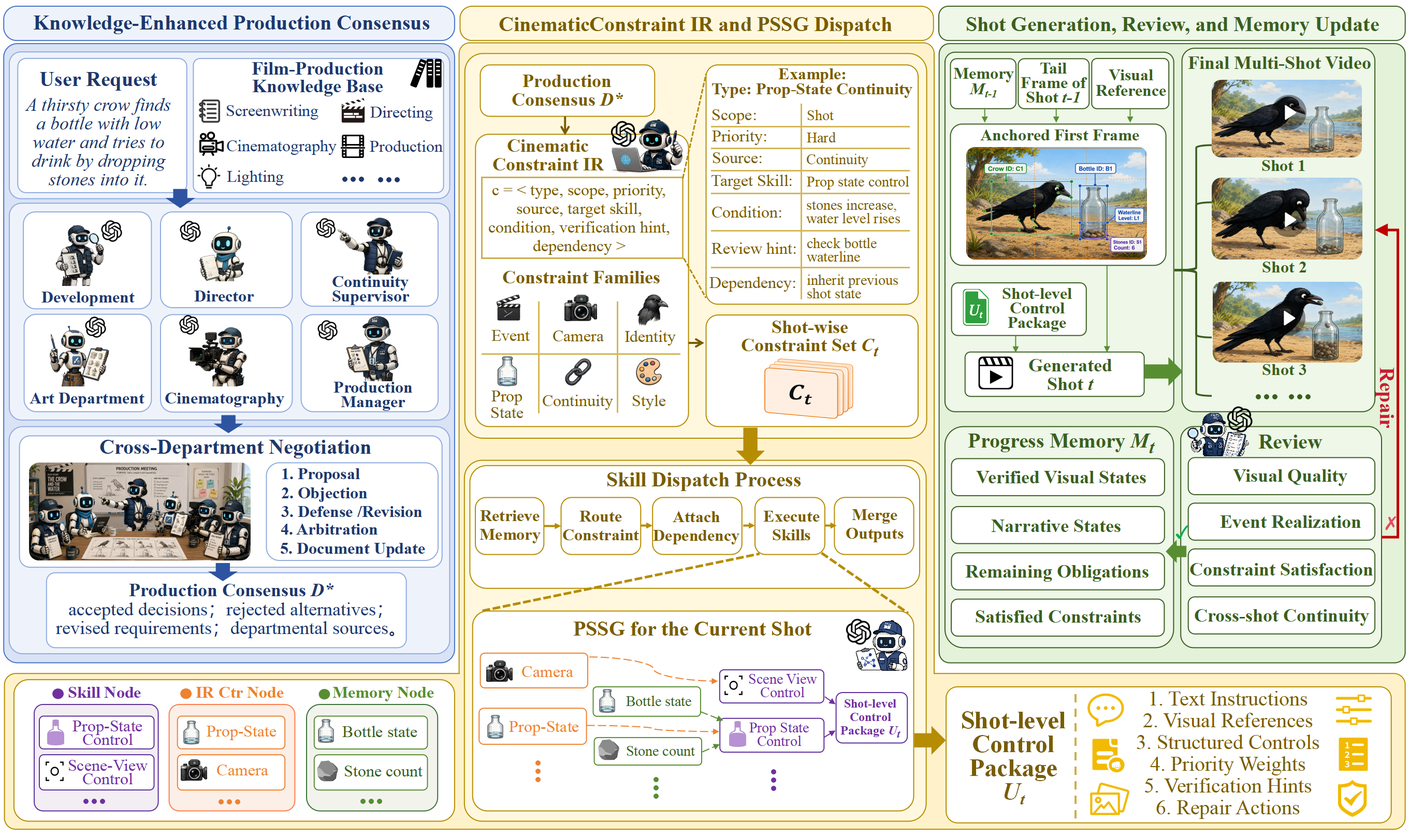
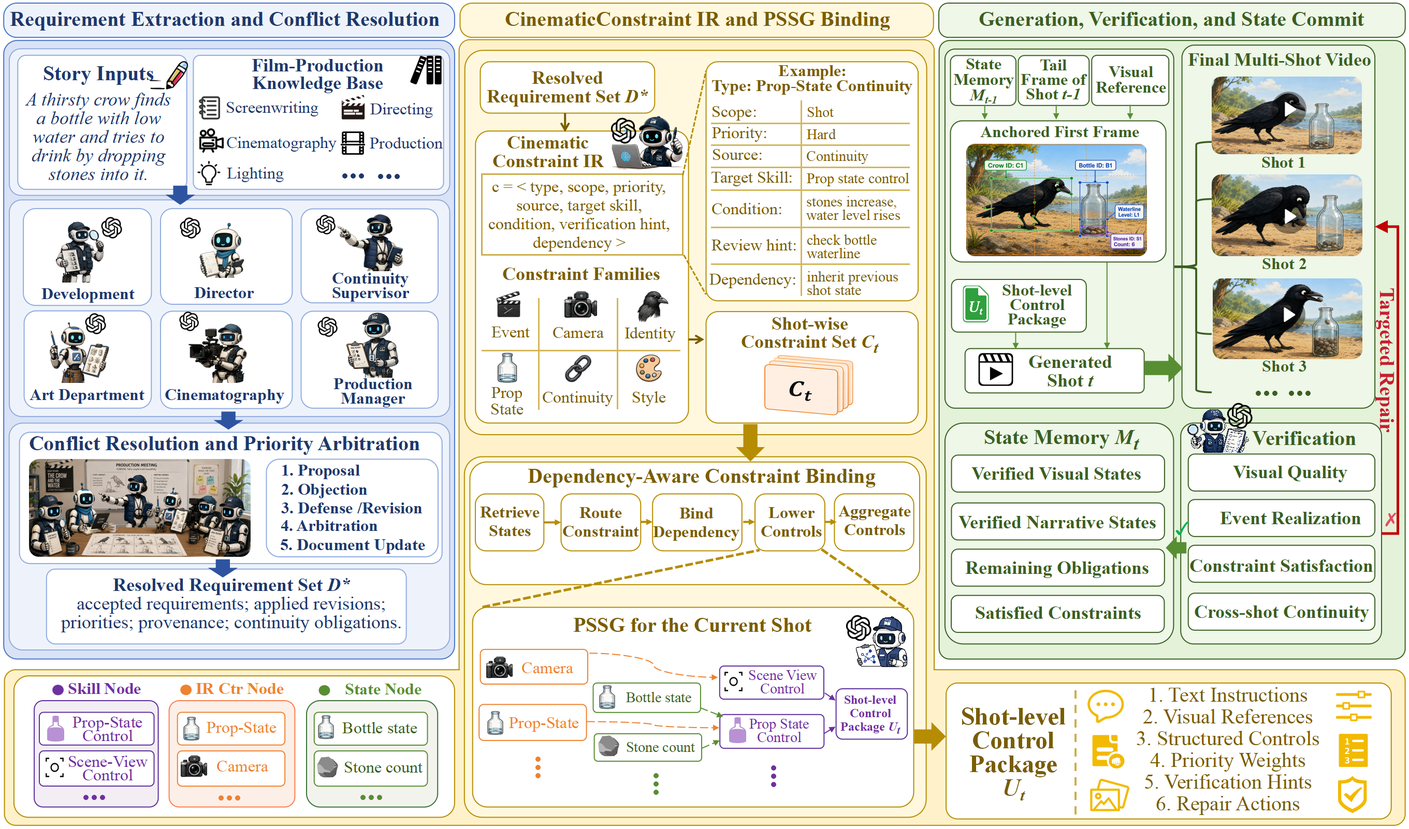
Unite revised overview with production roles and requirement preservation

Changed region(s): [[0.0, 0.0, 0.9996, 0.9988], [0.3436, 0.6242, 0.4061, 0.6554]]

diff --git a/site/assets/index-Ddd-dN8k.js b/site/assets/index-Ddd-dN8k.js
@@ -1,15 +1,4 @@
-<!doctype html>
-<html lang="en">
-  <head>
-    <meta charset="UTF-8" />
-    <meta name="viewport" content="width=device-width, initial-scale=1.0" />
-    <meta name="robots" content="noindex,nofollow" />
-    <meta name="description" content="CineIR: Constraint-Preserving Compilation for Multi-Shot Video Generation. Anonymous supplementary material." />
-    <title>CineIR · Anonymous Supplementary Material</title>
-    <link rel="icon" href="./favicon.svg" type="image/svg+xml" />
-    
-  </head>
-  <body><div id="root"></div><script>(function(){"use strict";var Mo=document.createElement("style");Mo.textContent=`:root{font-family:Inter,-apple-system,BlinkMacSystemFont,Segoe UI,sans-serif;color:#1c2533;background:#f3f5f8;font-synthesis:none;font-weight:400;line-height:1.6;--blue:#2563eb;--line:#dce2ea;--muted:#626b79}*{box-sizing:border-box}body{margin:0}button,input{font:inherit}button,a,input,summary{-webkit-tap-highlight-color:transparent}a{color:inherit;text-decoration:none}button{cursor:pointer}button:focus-visible,a:focus-visible,input:focus-visible,summary:focus-visible,video:focus-visible{outline:3px solid var(--blue);outline-offset:4px}html{scroll-behavior:smooth;scroll-padding-top:88px}h1,h2,h3,p{margin:0}button{min-height:40px;border:1px solid #dedfe3;border-radius:5px;background:#fff;padding:7px 13px;font-size:13px;font-weight:500;color:#363636;transition:background .15s}button:hover{background:#f3f4f6}button.primary{background:#20242c;color:#fff;border-color:#20242c}button.primary:hover{background:#363d48}.skip-link{position:fixed;top:-60px;left:20px;z-index:10;background:#fff;padding:8px}.skip-link:focus{top:8px}.site-header{position:sticky;top:0;z-index:5;background:#f3f5f8;border-bottom:1px solid transparent}.site-header.scrolled{background:#fbfcfe;border-color:var(--line)}.nav-inner{max-width:1480px;padding:15px 40px;margin:auto;display:flex;justify-content:space-between;align-items:center}.wordmark{font-size:20px;font-weight:750;letter-spacing:-.7px}.wordmark span{color:var(--blue)}.nav-links{display:flex;gap:32px;font-size:13px;color:#575b64}.nav-links a:hover{color:var(--blue)}.hero{text-align:center;padding:78px 24px 52px;max-width:1000px;margin:auto}.hero-name{font-size:58px;line-height:1.1;letter-spacing:-3px;font-weight:750;color:var(--blue);margin-bottom:23px}h1{font-size:clamp(28px,3.1vw,44px);line-height:1.23;letter-spacing:-1.5px;font-weight:650}h1 span{display:block}.anonymous{display:inline-block;font-size:12px;color:#536684;letter-spacing:.06em;margin-top:24px;padding:6px 14px;border:1px solid #d9e2ef;border-radius:5px;background:#edf2f9}.hero-description{font-size:16px;line-height:1.85;max-width:730px;margin:26px auto 0;color:var(--muted)}.page-container{max-width:1480px;margin:auto;padding:0 40px}.chapter{position:relative;padding:72px 0 120px;border-top:1px solid var(--line)}.chapter:before{content:"";position:absolute;top:-1px;left:0;width:48px;height:3px;background:#8aa8d7;border-radius:2px}.chapter+.chapter{padding-top:80px}.chapter-heading{display:flex;gap:25px;align-items:center;margin-bottom:32px}.chapter-number{font-size:76px;color:#ccd7e8;font-weight:500;line-height:1;letter-spacing:-5px;font-variant-numeric:tabular-nums}.eyebrow{text-transform:uppercase;font-size:10px;letter-spacing:.16em;font-weight:650;color:#737781}.chapter-heading .eyebrow{margin-bottom:8px}h2{font-size:clamp(25px,2.5vw,34px);font-weight:600;letter-spacing:-1px;line-height:1.25}.prompt-block>.eyebrow{margin-bottom:11px}.prompt-text{white-space:pre-wrap;overflow-wrap:anywhere;font-size:13px;color:#535862;line-height:1.8;background:#fbfcfe;border:1px solid #dfe5ed;border-left:3px solid #c1cfe5;border-radius:7px;padding:23px 27px}.focus-row{display:flex;align-items:center;gap:24px;margin:24px 0 35px}.focus-row ul{list-style:none;display:flex;gap:8px;flex-wrap:wrap;margin:0;padding:0}.focus-row li{font-size:11px;color:#5b6980;background:#eaf0f7;border:1px solid #dce5f0;border-radius:4px;padding:4px 10px}.sync-toolbar{display:flex;justify-content:space-between;gap:20px;align-items:center;margin-bottom:18px}.sync-toolbar h3{font-size:14px;font-weight:600}.sync-toolbar p{font-size:11px;color:#777;margin-top:3px}.buttons{display:flex;align-items:center;gap:7px;flex-wrap:wrap}.buttons button span{margin-right:4px}.loop-control{font-size:12px;display:flex;align-items:center;gap:5px;min-height:40px;padding:0 6px;cursor:pointer}.loop-control input{accent-color:var(--blue);width:15px;height:15px}.video-grid{display:grid;grid-template-columns:repeat(3,minmax(0,1fr));gap:20px}.video-card{min-width:0;border:1px solid #dfe2e7;border-radius:9px;overflow:hidden;background:#fff;box-shadow:0 2px 6px #1c2d4809}.card-heading{display:flex;align-items:center;justify-content:space-between;gap:8px;padding:12px 15px;min-height:47px}.card-heading h3{font-size:13px;font-weight:600}.sequence-label{font-size:9px;color:#8a8f98;white-space:nowrap}.ours{border-color:#8aaaf0}.ours .card-heading{background:#edf3ff}.ours h3{color:#2059c8}.video-frame{aspect-ratio:16/9;position:relative;background:#eceef1;isolation:isolate}.video-frame video{position:absolute;top:0;right:0;bottom:0;left:0;width:100%;height:100%;object-fit:contain;z-index:2}.poster{position:absolute;width:100%;height:100%;object-fit:contain;z-index:1}.placeholder{position:absolute;top:0;right:0;bottom:0;left:0;display:flex;align-items:center;justify-content:center;flex-direction:column;font-size:11px;gap:7px;color:#8b9099}.frame-icon{font-size:28px}.unavailable{position:absolute;top:0;right:0;bottom:0;left:0;display:grid;place-items:center;color:#777;font-size:13px;background:#eef0f3;z-index:3}.master-timeline{margin-top:20px;padding:15px 18px;background:#fbfcfe;border:1px solid #dfe5ed;border-radius:7px}.timeline-title{display:flex;justify-content:space-between;font-size:11px;color:#555}.timeline-title output{font-variant-numeric:tabular-nums;color:var(--blue)}.range-row{display:flex;gap:13px;align-items:center;font-size:10px;color:#8b8b8b;margin:5px 0}.range-row input{width:100%;height:24px;margin:0;accent-color:var(--blue);cursor:pointer}.master-timeline p{font-size:11px;color:#81858d}.playback-notice{font-size:12px;color:#666;margin-top:12px}.mobile-note{display:none}.section-description{max-width:770px;font-size:15px;color:var(--muted);line-height:1.8;margin:-6px 0 32px}.long-video{max-width:1120px;margin:auto}.long-video .card-heading{padding:14px 18px}.long-prompt{margin-top:22px;font-size:12px;color:#666}.long-prompt summary{cursor:pointer;min-height:40px}.long-prompt .prompt-text{margin-top:8px}.shot-timeline{display:flex;gap:8px;overflow-x:auto;padding:16px 3px}.shot-timeline button{flex-shrink:0}.shot-timeline button span{display:block;font-size:11px}.site-footer{border-top:1px solid var(--line);max-width:1400px;margin:auto;padding:28px 0 40px;display:flex;justify-content:space-between;align-items:center;color:#858991;font-size:11px}.site-footer .wordmark{font-size:16px;color:#555}@media(min-width:1600px){.hero{padding-top:100px;padding-bottom:70px}}@media(max-width:1100px){.sync-toolbar{align-items:flex-start;flex-direction:column}.video-grid{grid-template-columns:repeat(2,minmax(0,1fr))}.sequence-label{font-size:10px}.site-footer{margin:0 40px}}@media(max-width:700px){html{scroll-padding-top:76px}.nav-inner{padding:13px 20px}.nav-links{gap:20px;font-size:12px}.hero{padding:58px 20px 42px}.hero-name{font-size:48px}h1{font-size:28px;letter-spacing:-.9px}.hero-description{font-size:14px}.anonymous{font-size:11px}.page-container{padding:0 20px}.chapter{padding:48px 0 80px}.chapter+.chapter{padding-top:48px}.chapter-heading{gap:18px}.chapter-number{font-size:60px}.eyebrow{font-size:9px}h2{font-size:25px}.prompt-text{padding:18px;font-size:12px}.focus-row{flex-direction:column;align-items:flex-start;gap:10px}.video-grid{grid-template-columns:1fr;gap:18px}.buttons{gap:6px}.buttons button{padding:7px 10px;font-size:12px}.mobile-note{display:block;color:#888;font-size:11px;margin:0 0 15px}.section-description{font-size:14px}.site-footer{margin:0 20px;gap:16px;font-size:10px}.master-timeline p{font-size:10px}}@media(prefers-reduced-motion:reduce){html{scroll-behavior:auto}*,*:before,*:after{transition:none!important;animation:none!important}}.method-figure{margin:0 0 72px;padding:16px;background:#fff;border:1px solid #dce2ea;border-radius:12px;box-shadow:0 4px 16px #1c2d480a}.method-figure a{display:block;border-radius:4px}.method-figure img{display:block;width:100%;height:auto}.method-figure a:hover{cursor:zoom-in}@media(max-width:700px){.method-figure{margin-bottom:48px;padding:7px;border-radius:8px}}.nav-links a{padding:6px 11px;border-radius:6px}.nav-links a:hover{background:#e6edf7}.nav-links{gap:12px}.hero-name{font-size:68px;font-weight:800;letter-spacing:-3.5px}.hero{padding-bottom:60px}.hero-description{max-width:710px}.method-figure{padding:24px;border-radius:16px;border-top:3px solid #b7c9e7}.method-figure img{border-radius:5px}.chapter-heading{gap:24px;position:relative}.chapter-heading>div{flex:1;min-width:0}.chapter-heading .eyebrow{display:flex;align-items:center;gap:16px;color:#637693}.chapter-heading .eyebrow:after{content:"";height:1px;background:#dce3ee;flex:1;max-width:160px}.chapter-number{display:grid;place-items:center;min-width:94px;min-height:94px;font-size:52px;letter-spacing:-3px;color:#8198ba;background:#e7edf6;border:1px solid #d8e1ef;border-radius:14px;font-weight:400}.chapter-heading h2{font-size:clamp(27px,2.6vw,37px);letter-spacing:-1.2px}.prompt-block{display:grid;grid-template-columns:135px minmax(0,1fr);gap:22px;background:#fff;border:1px solid #dce3ec;border-radius:12px;padding:26px;margin-top:36px}.prompt-block>.eyebrow{margin:3px 0 0;position:relative;padding-top:18px}.prompt-block>.eyebrow:before{content:"";position:absolute;top:0;left:0;width:24px;height:3px;background:#91a9cb;border-radius:2px}.story-script{min-width:0}.script-style{font-size:12px;line-height:1.8;color:#697386;padding-bottom:18px;border-bottom:1px solid #e8edf3;white-space:pre-wrap}.script-shots{list-style:none;padding:0;margin:0;display:grid;grid-template-columns:repeat(2,minmax(0,1fr));column-gap:28px}.script-shots li{display:flex;gap:14px;align-items:flex-start;padding:18px 0;border-bottom:1px solid #edf0f5;min-width:0}.script-shots li:nth-last-child(-n+2){border-bottom:0;padding-bottom:0}.shot-label{flex:0 0 30px;font-size:8px;letter-spacing:.08em;text-transform:uppercase;color:#8290a5;padding-top:3px;line-height:1.4}.shot-label strong{display:block;font-size:20px;letter-spacing:-.5px;font-weight:500;color:#9aaac1}.script-shots p{font-size:12px;line-height:1.8;color:#535e6e;white-space:pre-wrap;overflow-wrap:anywhere}.focus-row{padding:0 4px;gap:22px}.focus-row>.eyebrow{flex:0 0 157px}.focus-row ul{gap:10px}.focus-row li{background:transparent;border:0;padding:0 14px 0 0;border-right:1px solid #cfd9e7;border-radius:0;display:flex;align-items:center;gap:7px}.focus-row li:before{content:"";width:4px;height:4px;border-radius:50%;background:#91a5c4}.focus-row li:last-child{border-right:0}.sync-toolbar{background:#e7edf5;border:1px solid #d8e1ed;border-radius:10px;padding:17px 20px;margin-bottom:22px}.sync-toolbar h3{font-size:14px;color:#293d5b}.sync-toolbar p{color:#738197}.buttons{gap:8px}.buttons button{border-radius:6px;border-color:#d4deeb;background:#f9fbfe;min-height:38px}.buttons button:hover{background:#fff;border-color:#a5b8d5}.buttons button.primary{background:#285caa;border-color:#285caa;color:#fff}.buttons button.primary:hover{background:#214e92}.loop-control{color:#536781;border-left:1px solid #cdd8e7;padding-left:12px;margin-left:3px}.video-grid{gap:24px}.video-card{border-radius:11px;border-color:#d6dfe9;box-shadow:0 3px 9px #1e304c0a}.card-heading{padding:15px 17px;min-height:56px}.card-heading h3{font-size:14px;letter-spacing:-.2px}.sequence-label{font-size:8px;text-transform:uppercase;letter-spacing:.06em;color:#8591a3}.ours{border-color:#83a5df}.ours .card-heading{background:#eaf1fd}.ours h3{color:#2458a9}.master-timeline{padding:18px 22px;border-radius:10px;margin-top:24px}.timeline-title{font-size:12px;font-weight:500;color:#536179}.timeline-title output{font-family:ui-monospace,SFMono-Regular,Consolas,monospace;background:#edf3fd;border:1px solid #dce7f9;padding:2px 8px;border-radius:4px}.range-row{margin:10px 0 7px}.master-timeline p{color:#8490a0}@media(max-width:1100px){.prompt-block{grid-template-columns:110px minmax(0,1fr);gap:18px;padding:22px}.script-shots{column-gap:20px}.focus-row>.eyebrow{flex-basis:128px}.sync-toolbar{flex-direction:row;flex-wrap:wrap}.sequence-label{font-size:8px}}@media(max-width:700px){.nav-links{gap:2px}.nav-links a{padding:6px 8px}.hero-name{font-size:54px}.hero{padding-bottom:40px}.method-figure{padding:8px;border-radius:10px}.chapter-heading{gap:16px}.chapter-number{min-width:62px;min-height:68px;font-size:36px;letter-spacing:-2px;border-radius:10px}.chapter-heading h2{font-size:25px;letter-spacing:-.8px}.chapter-heading .eyebrow{font-size:8px;gap:8px}.chapter-heading .eyebrow:after{display:none}.prompt-block{display:block;padding:18px;margin-top:24px}.prompt-block>.eyebrow{margin-bottom:16px;padding-top:12px}.script-shots{grid-template-columns:1fr}.script-shots li{gap:12px;padding:14px 0}.script-shots li:nth-last-child(2){border-bottom:1px solid #edf0f5;padding-bottom:14px}.script-shots p{font-size:12px}.script-style{font-size:11px}.focus-row{padding:0;gap:12px}.focus-row>.eyebrow{flex-basis:auto}.focus-row li{font-size:10px;padding-right:10px}.sync-toolbar{padding:15px;gap:14px}.buttons{gap:6px}.buttons button{font-size:11px;padding:7px 9px}.loop-control{font-size:11px;min-height:36px}.video-grid{gap:20px}.card-heading{padding:13px 15px}.card-heading h3{font-size:13px}.master-timeline{padding:15px}}.research-overview{padding:36px 0 80px;scroll-margin-top:90px}.overview-heading{max-width:890px;margin:0 auto 36px;text-align:center}.overview-heading .eyebrow{color:#526f9c}.overview-heading h2{font-size:clamp(26px,2.6vw,38px);line-height:1.25;letter-spacing:-1px;margin:12px 0 18px}.overview-intro{font-size:16px;line-height:1.85;color:#5d6878;max-width:810px;margin:auto}.research-overview .method-figure{margin:0;padding:14px;border:1px solid #dce2ea;border-radius:12px;box-shadow:none}.method-figure figcaption{font-size:12px;line-height:1.8;color:#637083;padding:16px 12px 4px;max-width:1100px;margin:auto}.method-discussion{display:grid;grid-template-columns:1fr 1fr;gap:64px;padding:40px 12px 30px}.method-discussion article{min-width:0}.method-discussion .eyebrow{color:#526f9c;font-size:10px}.method-discussion h3{font-size:23px;line-height:1.35;font-weight:600;letter-spacing:-.5px;margin:12px 0 16px}.method-discussion article>p:not(.eyebrow){color:#5d6878;font-size:14px;line-height:1.9}.production-roles{display:flex;flex-wrap:wrap;gap:8px 18px;list-style:none;padding:18px 0 0;margin:0;color:#405574;font-size:11px}.production-roles li{padding-left:10px;border-left:2px solid #b7c9e7}.requirement-note{border-top:1px solid #dce2ea;padding:22px 12px 0;font-size:13px;line-height:1.9;color:#637083}.requirement-note strong{font-weight:600;color:#35445b}@media(max-width:700px){.research-overview{padding:18px 0 44px}.overview-heading{text-align:left;margin-bottom:24px}.overview-intro{font-size:14px}.research-overview .method-figure{padding:6px}.method-figure figcaption{font-size:11px;padding:12px 6px 6px}.method-discussion{grid-template-columns:1fr;gap:28px;padding:28px 0}.method-discussion h3{font-size:21px}.requirement-note{padding:20px 0 0}}
+(function(){"use strict";var Mo=document.createElement("style");Mo.textContent=`:root{font-family:Inter,-apple-system,BlinkMacSystemFont,Segoe UI,sans-serif;color:#1c2533;background:#f3f5f8;font-synthesis:none;font-weight:400;line-height:1.6;--blue:#2563eb;--line:#dce2ea;--muted:#626b79}*{box-sizing:border-box}body{margin:0}button,input{font:inherit}button,a,input,summary{-webkit-tap-highlight-color:transparent}a{color:inherit;text-decoration:none}button{cursor:pointer}button:focus-visible,a:focus-visible,input:focus-visible,summary:focus-visible,video:focus-visible{outline:3px solid var(--blue);outline-offset:4px}html{scroll-behavior:smooth;scroll-padding-top:88px}h1,h2,h3,p{margin:0}button{min-height:40px;border:1px solid #dedfe3;border-radius:5px;background:#fff;padding:7px 13px;font-size:13px;font-weight:500;color:#363636;transition:background .15s}button:hover{background:#f3f4f6}button.primary{background:#20242c;color:#fff;border-color:#20242c}button.primary:hover{background:#363d48}.skip-link{position:fixed;top:-60px;left:20px;z-index:10;background:#fff;padding:8px}.skip-link:focus{top:8px}.site-header{position:sticky;top:0;z-index:5;background:#f3f5f8;border-bottom:1px solid transparent}.site-header.scrolled{background:#fbfcfe;border-color:var(--line)}.nav-inner{max-width:1480px;padding:15px 40px;margin:auto;display:flex;justify-content:space-between;align-items:center}.wordmark{font-size:20px;font-weight:750;letter-spacing:-.7px}.wordmark span{color:var(--blue)}.nav-links{display:flex;gap:32px;font-size:13px;color:#575b64}.nav-links a:hover{color:var(--blue)}.hero{text-align:center;padding:78px 24px 52px;max-width:1000px;margin:auto}.hero-name{font-size:58px;line-height:1.1;letter-spacing:-3px;font-weight:750;color:var(--blue);margin-bottom:23px}h1{font-size:clamp(28px,3.1vw,44px);line-height:1.23;letter-spacing:-1.5px;font-weight:650}h1 span{display:block}.anonymous{display:inline-block;font-size:12px;color:#536684;letter-spacing:.06em;margin-top:24px;padding:6px 14px;border:1px solid #d9e2ef;border-radius:5px;background:#edf2f9}.hero-description{font-size:16px;line-height:1.85;max-width:730px;margin:26px auto 0;color:var(--muted)}.page-container{max-width:1480px;margin:auto;padding:0 40px}.chapter{position:relative;padding:72px 0 120px;border-top:1px solid var(--line)}.chapter:before{content:"";position:absolute;top:-1px;left:0;width:48px;height:3px;background:#8aa8d7;border-radius:2px}.chapter+.chapter{padding-top:80px}.chapter-heading{display:flex;gap:25px;align-items:center;margin-bottom:32px}.chapter-number{font-size:76px;color:#ccd7e8;font-weight:500;line-height:1;letter-spacing:-5px;font-variant-numeric:tabular-nums}.eyebrow{text-transform:uppercase;font-size:10px;letter-spacing:.16em;font-weight:650;color:#737781}.chapter-heading .eyebrow{margin-bottom:8px}h2{font-size:clamp(25px,2.5vw,34px);font-weight:600;letter-spacing:-1px;line-height:1.25}.prompt-block>.eyebrow{margin-bottom:11px}.prompt-text{white-space:pre-wrap;overflow-wrap:anywhere;font-size:13px;color:#535862;line-height:1.8;background:#fbfcfe;border:1px solid #dfe5ed;border-left:3px solid #c1cfe5;border-radius:7px;padding:23px 27px}.focus-row{display:flex;align-items:center;gap:24px;margin:24px 0 35px}.focus-row ul{list-style:none;display:flex;gap:8px;flex-wrap:wrap;margin:0;padding:0}.focus-row li{font-size:11px;color:#5b6980;background:#eaf0f7;border:1px solid #dce5f0;border-radius:4px;padding:4px 10px}.sync-toolbar{display:flex;justify-content:space-between;gap:20px;align-items:center;margin-bottom:18px}.sync-toolbar h3{font-size:14px;font-weight:600}.sync-toolbar p{font-size:11px;color:#777;margin-top:3px}.buttons{display:flex;align-items:center;gap:7px;flex-wrap:wrap}.buttons button span{margin-right:4px}.loop-control{font-size:12px;display:flex;align-items:center;gap:5px;min-height:40px;padding:0 6px;cursor:pointer}.loop-control input{accent-color:var(--blue);width:15px;height:15px}.video-grid{display:grid;grid-template-columns:repeat(3,minmax(0,1fr));gap:20px}.video-card{min-width:0;border:1px solid #dfe2e7;border-radius:9px;overflow:hidden;background:#fff;box-shadow:0 2px 6px #1c2d4809}.card-heading{display:flex;align-items:center;justify-content:space-between;gap:8px;padding:12px 15px;min-height:47px}.card-heading h3{font-size:13px;font-weight:600}.sequence-label{font-size:9px;color:#8a8f98;white-space:nowrap}.ours{border-color:#8aaaf0}.ours .card-heading{background:#edf3ff}.ours h3{color:#2059c8}.video-frame{aspect-ratio:16/9;position:relative;background:#eceef1;isolation:isolate}.video-frame video{position:absolute;top:0;right:0;bottom:0;left:0;width:100%;height:100%;object-fit:contain;z-index:2}.poster{position:absolute;width:100%;height:100%;object-fit:contain;z-index:1}.placeholder{position:absolute;top:0;right:0;bottom:0;left:0;display:flex;align-items:center;justify-content:center;flex-direction:column;font-size:11px;gap:7px;color:#8b9099}.frame-icon{font-size:28px}.unavailable{position:absolute;top:0;right:0;bottom:0;left:0;display:grid;place-items:center;color:#777;font-size:13px;background:#eef0f3;z-index:3}.master-timeline{margin-top:20px;padding:15px 18px;background:#fbfcfe;border:1px solid #dfe5ed;border-radius:7px}.timeline-title{display:flex;justify-content:space-between;font-size:11px;color:#555}.timeline-title output{font-variant-numeric:tabular-nums;color:var(--blue)}.range-row{display:flex;gap:13px;align-items:center;font-size:10px;color:#8b8b8b;margin:5px 0}.range-row input{width:100%;height:24px;margin:0;accent-color:var(--blue);cursor:pointer}.master-timeline p{font-size:11px;color:#81858d}.playback-notice{font-size:12px;color:#666;margin-top:12px}.mobile-note{display:none}.section-description{max-width:770px;font-size:15px;color:var(--muted);line-height:1.8;margin:-6px 0 32px}.long-video{max-width:1120px;margin:auto}.long-video .card-heading{padding:14px 18px}.long-prompt{margin-top:22px;font-size:12px;color:#666}.long-prompt summary{cursor:pointer;min-height:40px}.long-prompt .prompt-text{margin-top:8px}.shot-timeline{display:flex;gap:8px;overflow-x:auto;padding:16px 3px}.shot-timeline button{flex-shrink:0}.shot-timeline button span{display:block;font-size:11px}.site-footer{border-top:1px solid var(--line);max-width:1400px;margin:auto;padding:28px 0 40px;display:flex;justify-content:space-between;align-items:center;color:#858991;font-size:11px}.site-footer .wordmark{font-size:16px;color:#555}@media(min-width:1600px){.hero{padding-top:100px;padding-bottom:70px}}@media(max-width:1100px){.sync-toolbar{align-items:flex-start;flex-direction:column}.video-grid{grid-template-columns:repeat(2,minmax(0,1fr))}.sequence-label{font-size:10px}.site-footer{margin:0 40px}}@media(max-width:700px){html{scroll-padding-top:76px}.nav-inner{padding:13px 20px}.nav-links{gap:20px;font-size:12px}.hero{padding:58px 20px 42px}.hero-name{font-size:48px}h1{font-size:28px;letter-spacing:-.9px}.hero-description{font-size:14px}.anonymous{font-size:11px}.page-container{padding:0 20px}.chapter{padding:48px 0 80px}.chapter+.chapter{padding-top:48px}.chapter-heading{gap:18px}.chapter-number{font-size:60px}.eyebrow{font-size:9px}h2{font-size:25px}.prompt-text{padding:18px;font-size:12px}.focus-row{flex-direction:column;align-items:flex-start;gap:10px}.video-grid{grid-template-columns:1fr;gap:18px}.buttons{gap:6px}.buttons button{padding:7px 10px;font-size:12px}.mobile-note{display:block;color:#888;font-size:11px;margin:0 0 15px}.section-description{font-size:14px}.site-footer{margin:0 20px;gap:16px;font-size:10px}.master-timeline p{font-size:10px}}@media(prefers-reduced-motion:reduce){html{scroll-behavior:auto}*,*:before,*:after{transition:none!important;animation:none!important}}.method-figure{margin:0 0 72px;padding:16px;background:#fff;border:1px solid #dce2ea;border-radius:12px;box-shadow:0 4px 16px #1c2d480a}.method-figure a{display:block;border-radius:4px}.method-figure img{display:block;width:100%;height:auto}.method-figure a:hover{cursor:zoom-in}@media(max-width:700px){.method-figure{margin-bottom:48px;padding:7px;border-radius:8px}}.nav-links a{padding:6px 11px;border-radius:6px}.nav-links a:hover{background:#e6edf7}.nav-links{gap:12px}.hero-name{font-size:68px;font-weight:800;letter-spacing:-3.5px}.hero{padding-bottom:60px}.hero-description{max-width:710px}.method-figure{padding:24px;border-radius:16px;border-top:3px solid #b7c9e7}.method-figure img{border-radius:5px}.chapter-heading{gap:24px;position:relative}.chapter-heading>div{flex:1;min-width:0}.chapter-heading .eyebrow{display:flex;align-items:center;gap:16px;color:#637693}.chapter-heading .eyebrow:after{content:"";height:1px;background:#dce3ee;flex:1;max-width:160px}.chapter-number{display:grid;place-items:center;min-width:94px;min-height:94px;font-size:52px;letter-spacing:-3px;color:#8198ba;background:#e7edf6;border:1px solid #d8e1ef;border-radius:14px;font-weight:400}.chapter-heading h2{font-size:clamp(27px,2.6vw,37px);letter-spacing:-1.2px}.prompt-block{display:grid;grid-template-columns:135px minmax(0,1fr);gap:22px;background:#fff;border:1px solid #dce3ec;border-radius:12px;padding:26px;margin-top:36px}.prompt-block>.eyebrow{margin:3px 0 0;position:relative;padding-top:18px}.prompt-block>.eyebrow:before{content:"";position:absolute;top:0;left:0;width:24px;height:3px;background:#91a9cb;border-radius:2px}.story-script{min-width:0}.script-style{font-size:12px;line-height:1.8;color:#697386;padding-bottom:18px;border-bottom:1px solid #e8edf3;white-space:pre-wrap}.script-shots{list-style:none;padding:0;margin:0;display:grid;grid-template-columns:repeat(2,minmax(0,1fr));column-gap:28px}.script-shots li{display:flex;gap:14px;align-items:flex-start;padding:18px 0;border-bottom:1px solid #edf0f5;min-width:0}.script-shots li:nth-last-child(-n+2){border-bottom:0;padding-bottom:0}.shot-label{flex:0 0 30px;font-size:8px;letter-spacing:.08em;text-transform:uppercase;color:#8290a5;padding-top:3px;line-height:1.4}.shot-label strong{display:block;font-size:20px;letter-spacing:-.5px;font-weight:500;color:#9aaac1}.script-shots p{font-size:12px;line-height:1.8;color:#535e6e;white-space:pre-wrap;overflow-wrap:anywhere}.focus-row{padding:0 4px;gap:22px}.focus-row>.eyebrow{flex:0 0 157px}.focus-row ul{gap:10px}.focus-row li{background:transparent;border:0;padding:0 14px 0 0;border-right:1px solid #cfd9e7;border-radius:0;display:flex;align-items:center;gap:7px}.focus-row li:before{content:"";width:4px;height:4px;border-radius:50%;background:#91a5c4}.focus-row li:last-child{border-right:0}.sync-toolbar{background:#e7edf5;border:1px solid #d8e1ed;border-radius:10px;padding:17px 20px;margin-bottom:22px}.sync-toolbar h3{font-size:14px;color:#293d5b}.sync-toolbar p{color:#738197}.buttons{gap:8px}.buttons button{border-radius:6px;border-color:#d4deeb;background:#f9fbfe;min-height:38px}.buttons button:hover{background:#fff;border-color:#a5b8d5}.buttons button.primary{background:#285caa;border-color:#285caa;color:#fff}.buttons button.primary:hover{background:#214e92}.loop-control{color:#536781;border-left:1px solid #cdd8e7;padding-left:12px;margin-left:3px}.video-grid{gap:24px}.video-card{border-radius:11px;border-color:#d6dfe9;box-shadow:0 3px 9px #1e304c0a}.card-heading{padding:15px 17px;min-height:56px}.card-heading h3{font-size:14px;letter-spacing:-.2px}.sequence-label{font-size:8px;text-transform:uppercase;letter-spacing:.06em;color:#8591a3}.ours{border-color:#83a5df}.ours .card-heading{background:#eaf1fd}.ours h3{color:#2458a9}.master-timeline{padding:18px 22px;border-radius:10px;margin-top:24px}.timeline-title{font-size:12px;font-weight:500;color:#536179}.timeline-title output{font-family:ui-monospace,SFMono-Regular,Consolas,monospace;background:#edf3fd;border:1px solid #dce7f9;padding:2px 8px;border-radius:4px}.range-row{margin:10px 0 7px}.master-timeline p{color:#8490a0}@media(max-width:1100px){.prompt-block{grid-template-columns:110px minmax(0,1fr);gap:18px;padding:22px}.script-shots{column-gap:20px}.focus-row>.eyebrow{flex-basis:128px}.sync-toolbar{flex-direction:row;flex-wrap:wrap}.sequence-label{font-size:8px}}@media(max-width:700px){.nav-links{gap:2px}.nav-links a{padding:6px 8px}.hero-name{font-size:54px}.hero{padding-bottom:40px}.method-figure{padding:8px;border-radius:10px}.chapter-heading{gap:16px}.chapter-number{min-width:62px;min-height:68px;font-size:36px;letter-spacing:-2px;border-radius:10px}.chapter-heading h2{font-size:25px;letter-spacing:-.8px}.chapter-heading .eyebrow{font-size:8px;gap:8px}.chapter-heading .eyebrow:after{display:none}.prompt-block{display:block;padding:18px;margin-top:24px}.prompt-block>.eyebrow{margin-bottom:16px;padding-top:12px}.script-shots{grid-template-columns:1fr}.script-shots li{gap:12px;padding:14px 0}.script-shots li:nth-last-child(2){border-bottom:1px solid #edf0f5;padding-bottom:14px}.script-shots p{font-size:12px}.script-style{font-size:11px}.focus-row{padding:0;gap:12px}.focus-row>.eyebrow{flex-basis:auto}.focus-row li{font-size:10px;padding-right:10px}.sync-toolbar{padding:15px;gap:14px}.buttons{gap:6px}.buttons button{font-size:11px;padding:7px 9px}.loop-control{font-size:11px;min-height:36px}.video-grid{gap:20px}.card-heading{padding:13px 15px}.card-heading h3{font-size:13px}.master-timeline{padding:15px}}.research-overview{padding:36px 0 80px;scroll-margin-top:90px}.overview-heading{max-width:890px;margin:0 auto 36px;text-align:center}.overview-heading .eyebrow{color:#526f9c}.overview-heading h2{font-size:clamp(26px,2.6vw,38px);line-height:1.25;letter-spacing:-1px;margin:12px 0 18px}.overview-intro{font-size:16px;line-height:1.85;color:#5d6878;max-width:810px;margin:auto}.research-overview .method-figure{margin:0;padding:14px;border:1px solid #dce2ea;border-radius:12px;box-shadow:none}.method-figure figcaption{font-size:12px;line-height:1.8;color:#637083;padding:16px 12px 4px;max-width:1100px;margin:auto}.method-discussion{display:grid;grid-template-columns:1fr 1fr;gap:64px;padding:40px 12px 30px}.method-discussion article{min-width:0}.method-discussion .eyebrow{color:#526f9c;font-size:10px}.method-discussion h3{font-size:23px;line-height:1.35;font-weight:600;letter-spacing:-.5px;margin:12px 0 16px}.method-discussion article>p:not(.eyebrow){color:#5d6878;font-size:14px;line-height:1.9}.production-roles{display:flex;flex-wrap:wrap;gap:8px 18px;list-style:none;padding:18px 0 0;margin:0;color:#405574;font-size:11px}.production-roles li{padding-left:10px;border-left:2px solid #b7c9e7}.requirement-note{border-top:1px solid #dce2ea;padding:22px 12px 0;font-size:13px;line-height:1.9;color:#637083}.requirement-note strong{font-weight:600;color:#35445b}@media(max-width:700px){.research-overview{padding:18px 0 44px}.overview-heading{text-align:left;margin-bottom:24px}.overview-intro{font-size:14px}.research-overview .method-figure{padding:6px}.method-figure figcaption{font-size:11px;padding:12px 6px 6px}.method-discussion{grid-template-columns:1fr;gap:28px;padding:28px 0}.method-discussion h3{font-size:21px}.requirement-note{padding:20px 0 0}}
 /*$vite$:1*/`,document.head.appendChild(Mo);var Yi={exports:{}},ru={};/**
  * @license React
  * react-jsx-runtime.production.js
@@ -109,5 +98,3 @@ During the battle, their sword energy accidentally damages the ancient tomb seal
 Epic coordinated wuxia combat: the female swordswoman attacks rapidly from the front while the black-clothed swordsman blocks and counterattacks from the side. Black smoke tentacles swirl around them, snow explodes beneath their feet, sword trails cut through the darkness. They realize the ancient sword is the key to restoring the seal. Both characters place their swords toward the ancient tombstone at the same time. Golden spiritual energy erupts from their blades. Brilliant golden Chinese talisman patterns illuminate the snowstorm. The giant black spirit is violently pulled back into the tomb as the black smoke dissolves into the wind.
 
 Silence returns. The two swordsmen stand opposite each other beside the grave. They lower their weapons. Without speaking, they turn and slowly walk away together through the endless snowy landscape. Final wide shot from behind: one figure in white and red, one figure in black, walking side by side toward distant snowy mountains, leaving two trails of footprints behind them.`,shots:[]},method:{eyebrow:"Method at a Glance",title:"Film-production expertise. Requirements preserved.",intro:"A story leaves many cinematic decisions implicit. CineIR elicits these requirements through specialized production roles and maintains them as explicit, traceable execution objects throughout multi-shot generation.",themes:[{label:"Film-production collaboration",title:"Complementary roles, negotiated requirements",text:"Role-specialized agents retrieve task-relevant knowledge from a film-production knowledge base to identify complementary requirements for events, performance, scene and prop states, camera design, style, and continuity. Structured deliberation and moderator arbitration resolve cross-role conflicts before execution.",roles:["Development","Director","Continuity Supervisor","Art Department","Cinematography","Production Manager"]},{label:"Requirement preservation",title:"Traceable from intent to verified state",text:"Accepted requirements become typed CinematicConstraint IR records with explicit priorities, provenance, target Skills, state dependencies, verification hints, and repair actions. A memory-conditioned Production State–Skill Graph (PSSG) binds these constraints to relevant verified states and executable visual Skills. Constraint-level verification guides targeted repair; verified state commit carries the resulting states into subsequent shots."}],noteTitle:"Addressing requirement loss.",note:"When requirements are flattened into conditioning signals, their dependencies, verification targets, and repair responsibilities can become implicit. CineIR keeps these execution semantics attached to the requirements across shots."}};function du(x){return`./${x.replace(/^\/+/,"")}`}function Go({video:x,active:Y,videoRef:M,muted:d=!1,onReady:G,onManual:tt}){const[I,Ct]=Dt.useState(!1),[pt,Et]=Dt.useState(!1);return T.jsxs("article",{className:`video-card ${x.ours?"ours":""}`,children:[T.jsxs("div",{className:"card-heading",children:[T.jsx("h3",{children:x.method}),T.jsx("span",{className:"sequence-label",children:"Complete sequence"})]}),T.jsxs("div",{className:"video-frame",children:[!pt&&!I&&T.jsx("img",{className:"poster",src:du(x.poster),alt:"",loading:"lazy",onError:()=>Et(!0)}),T.jsxs("div",{className:"placeholder","aria-hidden":"true",children:[T.jsx("span",{className:"frame-icon",children:"▷"}),T.jsx("span",{children:"Video preview"})]}),!I&&T.jsx("video",{ref:M,src:Y?du(x.src):void 0,poster:pt?void 0:du(x.poster),controls:Y,playsInline:!0,preload:Y?"metadata":"none",muted:d,"aria-label":`${x.method} complete video`,onLoadedMetadata:j=>G==null?void 0:G(j.currentTarget),onError:()=>Ct(!0),onPointerDown:tt,onKeyDown:tt}),I&&T.jsx("div",{className:"unavailable",role:"status",children:"Video unavailable"})]})]})}function Eh({prompt:x}){const Y=x.split(/(?=Shot \d+:)/),M=Y[0].trim(),d=Y.slice(1).map(G=>{const tt=G.match(/^Shot (\d+):\s*([\s\S]*)$/);return{number:tt[1],text:tt[2].trim()}});return d.length?T.jsxs("div",{className:"story-script",children:[M&&T.jsx("p",{className:"script-style",children:M}),T.jsx("ol",{className:"script-shots",children:d.map(G=>T.jsxs("li",{children:[T.jsxs("span",{className:"shot-label",children:["Shot ",T.jsx("strong",{children:G.number})]}),T.jsx("p",{children:G.text})]},G.number))})]}):T.jsx("div",{className:"prompt-text",children:x})}function Qo(){const x=Dt.useRef(null),[Y,M]=Dt.useState(!1);return Dt.useEffect(()=>{if(!("IntersectionObserver"in window)){M(!0);return}const d=new IntersectionObserver(([G])=>{G.isIntersecting&&(M(!0),d.disconnect())},{rootMargin:"350px 0px"});return x.current&&d.observe(x.current),()=>d.disconnect()},[]),[x,Y]}function _h(){const x=Dt.useRef([]),Y=Dt.useRef(0),M=Dt.useRef(!1),d=Dt.useRef(!1),[G,tt]=Dt.useState(!1),[I,Ct]=Dt.useState(0),[pt,Et]=Dt.useState(!0),[j,p]=Dt.useState(!1),[w,xt]=Dt.useState(""),Rt=()=>x.current.filter(N=>N&&!N.error&&Number.isFinite(N.duration)&&N.duration>0),Ht=N=>{Y.current=N,Ct(N)},at=N=>{const C=Math.max(...N.map(qt=>qt.duration));N.forEach(qt=>{qt.playbackRate=Math.max(.0625,Math.min(16,qt.duration/C))})},jt=()=>{M.current=!1,tt(!1),x.current.forEach(N=>{N&&(N.pause(),N.playbackRate=1)})},wt=N=>{const C=N.play();C==null||C.catch(()=>{xt("Some videos could not start. Press Play All to retry.")})},Tl=N=>{Ht(Math.max(0,Math.min(1,N))),Rt().forEach(C=>{C.currentTime=Y.current*C.duration})},zl=()=>{xt(""),Y.current>=.999&&Tl(0),M.current=!0,tt(!0);const N=Rt();at(N),N.forEach(C=>{C.currentTime=Y.current*C.duration,wt(C)}),x.current.filter(C=>C&&!C.error&&!N.includes(C)).forEach(wt)},El=N=>{Number.isFinite(N.duration)&&(N.currentTime=Y.current*N.duration,M.current&&(at(Rt()),wt(N)))},tl=()=>{M.current&&jt()};return Dt.useEffect(()=>{const N=setInterval(()=>{if(!M.current)return;const C=Rt();if(!C.length)return;const qt=C.filter(st=>!st.paused||st.ended);if(!qt.length){jt();return}const Zt=qt.reduce((st,jl)=>st.duration>jl.duration?st:jl),Lt=Math.min(1,Zt.currentTime/Zt.duration);if(Ht(Lt),Lt>=.999||Zt.ended){d.current?(Tl(0),at(C),C.forEach(wt)):(jt(),Ht(1));return}at(C),C.forEach(st=>{st===Zt||st.readyState<2||st.paused||Math.abs(st.currentTime/st.duration-Lt)>Math.max(.018,.65/st.duration)&&(st.currentTime=Lt*st.duration)})},500);return()=>clearInterval(N)},[]),{videos:x,playing:G,progress:I,muted:pt,loop:j,notice:w,play:zl,pause:jt,seek:Tl,ready:El,manual:tl,restart:()=>{jt(),Tl(0),xt("")},toggleMute:()=>Et(N=>(x.current.forEach(C=>{C&&(C.muted=!N)}),!N)),toggleLoop:()=>{d.current=!d.current,p(d.current)}}}function Xo({number:x,label:Y,title:M,id:d}){return T.jsxs("header",{className:"chapter-heading",children:[T.jsx("span",{className:"chapter-number","aria-hidden":"true",children:x}),T.jsxs("div",{children:[T.jsx("p",{className:"eyebrow",children:Y}),T.jsx("h2",{id:d,children:M})]})]})}function Nh({story:x}){const[Y,M]=Qo(),d=_h();return T.jsxs("section",{className:"story chapter",id:x.id,"aria-labelledby":`${x.id}-title`,children:[T.jsx(Xo,{number:x.number,label:"Qualitative comparison",title:x.title,id:`${x.id}-title`}),T.jsxs("div",{className:"prompt-block",children:[T.jsx("h3",{className:"eyebrow",children:"Story prompt"}),T.jsx(Eh,{prompt:x.prompt})]}),T.jsxs("div",{className:"focus-row",children:[T.jsx("h3",{className:"eyebrow",children:"What to look for"}),T.jsx("ul",{children:x.focus.map(G=>T.jsx("li",{children:G},G))})]}),T.jsxs("div",{className:"comparison",ref:Y,children:[T.jsxs("div",{className:"sync-toolbar",children:[T.jsxs("div",{children:[T.jsx("h3",{children:"Synchronized Playback"}),T.jsx("p",{children:"Six complete sequences · aligned by relative progress"})]}),T.jsxs("div",{className:"buttons",children:[T.jsxs("button",{className:"primary",onClick:d.play,"aria-pressed":d.playing,children:[T.jsx("span",{"aria-hidden":"true",children:"▷"})," Play All"]}),T.jsxs("button",{onClick:d.pause,children:[T.jsx("span",{"aria-hidden":"true",children:"Ⅱ"})," Pause All"]}),T.jsxs("button",{onClick:d.restart,children:[T.jsx("span",{"aria-hidden":"true",children:"↺"})," Restart"]}),T.jsx("button",{onClick:d.toggleMute,children:d.muted?"Unmute All":"Mute All"}),T.jsxs("label",{className:"loop-control",children:[T.jsx("input",{type:"checkbox",checked:d.loop,onChange:d.toggleLoop}),"Loop"]})]})]}),T.jsx("p",{className:"mobile-note",children:"For synchronized comparison, desktop viewing is recommended."}),T.jsx("div",{className:"video-grid",children:x.videos.map((G,tt)=>T.jsx(Go,{video:G,active:M,videoRef:I=>{d.videos.current[tt]=I},muted:d.muted,onReady:d.ready,onManual:d.manual},G.src))}),T.jsxs("div",{className:"master-timeline",children:[T.jsxs("div",{className:"timeline-title",children:[T.jsx("label",{htmlFor:`${x.id}-progress`,children:"Synchronized progress"}),T.jsxs("output",{htmlFor:`${x.id}-progress`,children:[Math.round(d.progress*100),"%"]})]}),T.jsxs("div",{className:"range-row",children:[T.jsx("span",{children:"0%"}),T.jsx("input",{id:`${x.id}-progress`,type:"range",min:"0",max:"1000",step:"1",value:Math.round(d.progress*1e3),onChange:G=>d.seek(Number(G.target.value)/1e3),"aria-valuetext":`${Math.round(d.progress*100)} percent`}),T.jsx("span",{children:"100%"})]}),T.jsx("p",{children:"Each video follows its own duration. Group playback adjusts playback speed to align relative progress."})]}),d.notice&&T.jsx("p",{className:"playback-notice",role:"status",children:d.notice})]})]})}function Oh({data:x}){const[Y,M]=Qo(),d=Dt.useRef(null),G=Dt.useRef(null),tt=I=>{var Ct;G.current=I,((Ct=d.current)==null?void 0:Ct.readyState)>=1&&(d.current.currentTime=I)};return T.jsxs("section",{id:"long-form",className:"chapter long-form","aria-labelledby":"long-form-title",children:[T.jsx(Xo,{number:x.number,label:"Long-form generation",title:x.title,id:"long-form-title"}),T.jsx("p",{className:"section-description",children:x.description}),T.jsxs("div",{className:"long-video",ref:Y,children:[T.jsx(Go,{video:x,active:M,videoRef:d,onReady:I=>{G.current!==null&&(I.currentTime=G.current)}}),x.shots.length>0&&T.jsx("nav",{className:"shot-timeline","aria-label":"Long-form shot timeline",children:x.shots.map(I=>T.jsxs("button",{onClick:()=>tt(I.time),children:["Shot ",String(I.number).padStart(2,"0"),I.label&&T.jsx("span",{children:I.label})]},I.number))}),x.prompt&&T.jsxs("details",{className:"long-prompt",children:[T.jsx("summary",{children:"Read the full generation prompt"}),T.jsx("div",{className:"prompt-text",children:x.prompt})]})]})]})}function Ah({method:x,overview:Y}){return T.jsxs("section",{id:"method",className:"research-overview","aria-labelledby":"method-title",children:[T.jsxs("header",{className:"overview-heading",children:[T.jsx("p",{className:"eyebrow",children:x.eyebrow}),T.jsx("h2",{id:"method-title",children:x.title}),T.jsx("p",{className:"overview-intro",children:x.intro})]}),T.jsxs("figure",{className:"method-figure",children:[T.jsx("a",{href:du(Y.src),target:"_blank",rel:"noopener noreferrer","aria-label":"View the method overview at full resolution",children:T.jsx("img",{src:du(Y.src),alt:Y.alt,width:Y.width,height:Y.height,fetchPriority:"high"})}),T.jsx("figcaption",{children:Y.caption})]}),T.jsx("div",{className:"method-discussion",children:x.themes.map(M=>T.jsxs("article",{children:[T.jsx("p",{className:"eyebrow",children:M.label}),T.jsx("h3",{children:M.title}),T.jsx("p",{children:M.text}),M.roles&&T.jsx("ul",{className:"production-roles","aria-label":"Film-production roles",children:M.roles.map(d=>T.jsx("li",{children:d},d))})]},M.title))}),T.jsxs("p",{className:"requirement-note",children:[T.jsx("strong",{children:x.noteTitle})," ",x.note]})]})}function Mh(){const[x,Y]=Dt.useState(!1);return Dt.useEffect(()=>{const M=()=>Y(window.scrollY>12);return M(),window.addEventListener("scroll",M,{passive:!0}),()=>window.removeEventListener("scroll",M)},[]),T.jsx("header",{className:`site-header ${x?"scrolled":""}`,children:T.jsxs("nav",{className:"nav-inner","aria-label":"Main navigation",children:[T.jsxs("a",{className:"wordmark",href:"#top",children:[Hl.name,T.jsx("span",{"aria-hidden":"true",children:"."})]}),T.jsxs("div",{className:"nav-links",children:[T.jsx("a",{href:"#results",children:"Results"}),T.jsx("a",{href:"#long-form",children:"Long-form"}),T.jsx("a",{href:"#method",children:"Method"})]})]})})}function Dh(){return T.jsxs(T.Fragment,{children:[T.jsx("a",{className:"skip-link",href:"#results",children:"Skip to video results"}),T.jsx(Mh,{}),T.jsxs("main",{id:"top",children:[T.jsxs("section",{className:"hero","aria-labelledby":"paper-title",children:[T.jsx("p",{className:"hero-name",children:Hl.name}),T.jsx("h1",{id:"paper-title",children:Hl.title.map(x=>T.jsx("span",{children:x},x))}),T.jsx("p",{className:"anonymous",children:Hl.subtitle}),T.jsx("p",{className:"hero-description",children:Hl.description})]}),T.jsxs("div",{className:"page-container",children:[T.jsx(Ah,{method:Hl.method,overview:Hl.overview}),T.jsx("div",{id:"results","aria-label":"Qualitative comparisons",children:Hl.stories.map(x=>T.jsx(Nh,{story:x},x.id))}),T.jsx(Oh,{data:Hl.longForm})]})]}),T.jsxs("footer",{className:"site-footer",children:[T.jsx("span",{className:"wordmark",children:Hl.name}),T.jsx("span",{children:Hl.subtitle})]})]})}Th.createRoot(document.getElementById("root")).render(T.jsx(Dh,{}))})();
-</script></body>
-</html>
